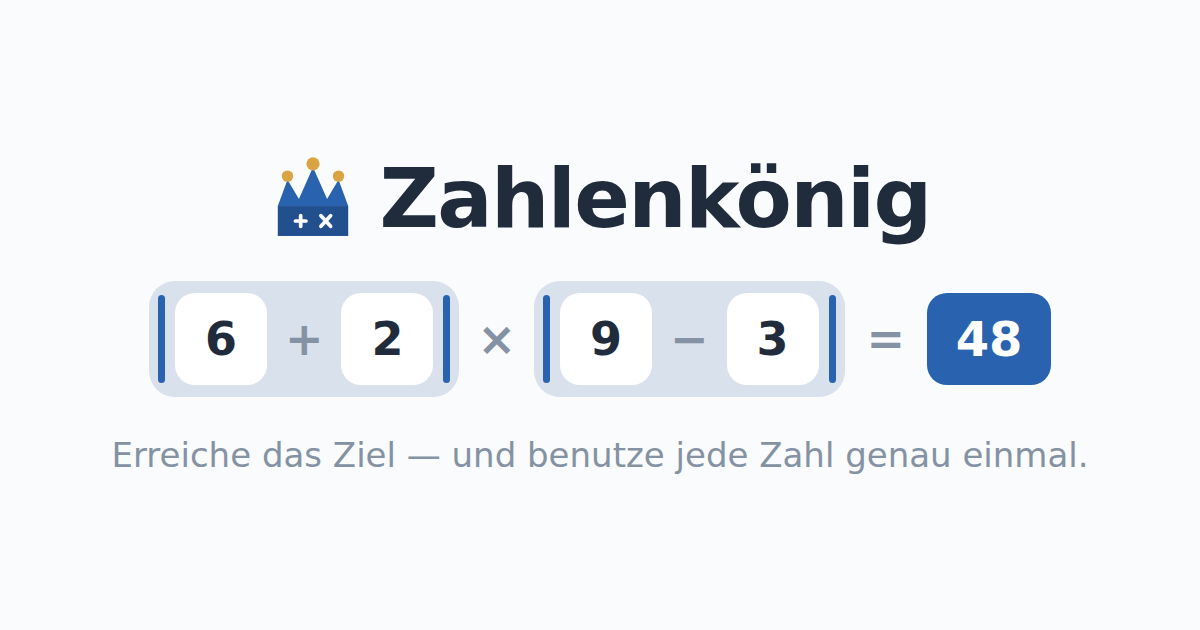
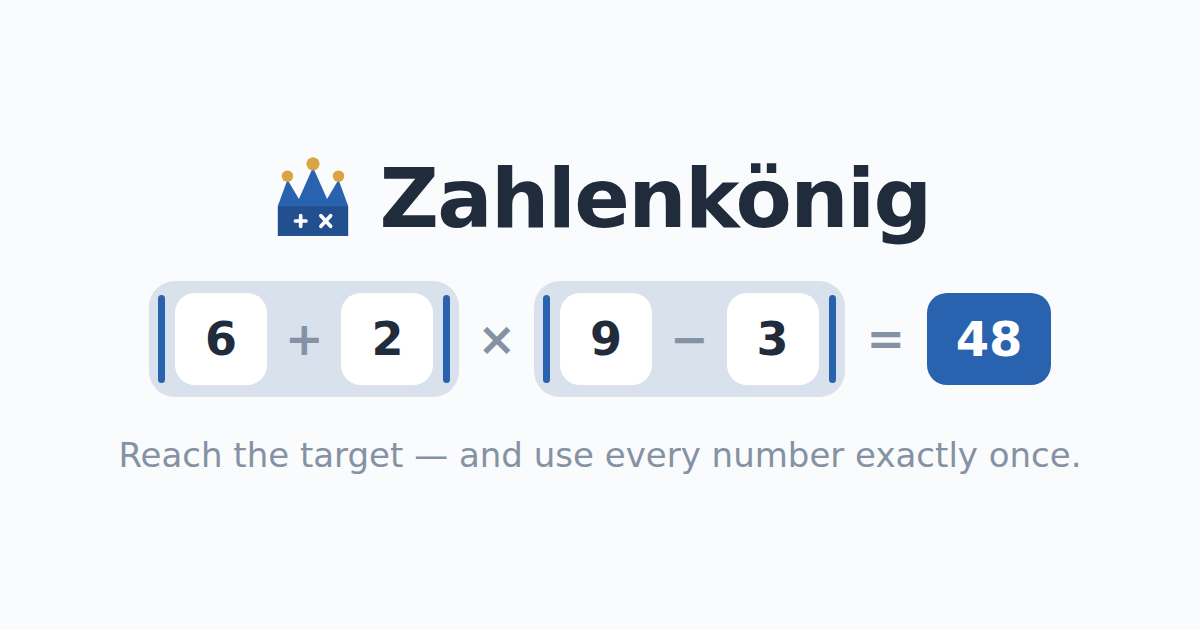
Serve the page and the sharing card in English
English is already the app's fallback language — detectLanguage() returns
'en' for anything it does not recognise and DEFAULT_SETTINGS.language is
'en' — so the German static page was the one place not following the rule
the rest of the app has.

The constraint that makes this a decision rather than a preference: a
crawler, a link scraper and an install prompt each fetch this URL once,
from their own servers, with no reader to follow. None can be given "the
user's language" the way the app can. Game.tsx already rewrites
documentElement.lang and the sr-only heading per player; that half was
always translated. So these surfaces take the fallback language, and
per-language cards would need per-language URLs, which is out of
proportion here.

Changed: html lang, title, meta description, the #root fallback prose, the
JSON-LD description/audience/featureList, the Open Graph and Twitter
cards, the og image tagline, and the manifest name/description/lang. The
game's own name stays German because it is a name.

Also dropped the two og:locale:alternate lines: they declared translations
that no alternate URL served, so nothing could act on them.

Verified in a browser that a de-DE browser still loads the German app and
html lang still becomes 'de' — the English is only ever what a crawler or
an unrecognised locale sees.

src/seo.test.ts pins the rule sentence to i18n's English introRule, which
the served page now matches word for word, and gains one invariant: the
[…]

Changed region(s): [[0.37, 0.6937, 0.8942, 0.754], [0.0925, 0.6937, 0.3392, 0.754]]

diff --git a/index.html b/index.html
@@ -1,5 +1,11 @@
 <!doctype html>
-<html lang="de">
+<!-- English, matching the app's own fallback language: `detectLanguage()`
+     returns 'en' for anything it does not recognise and
+     `DEFAULT_SETTINGS.language` is 'en' (core/settings.ts). Game.tsx
+     rewrites this attribute to the player's detected language on mount, so
+     this value is what a crawler reads and what an unrecognised locale
+     gets — exactly the two cases the i18n fallback already covers. -->
+<html lang="en">
   <head>
     <meta charset="UTF-8" />
     <link rel="icon" type="image/svg+xml" href="/zahlenkoenig/crown.svg" />
@@ -11,48 +17,50 @@
          why this and the manifest's theme_color have to stay in sync by hand. -->
     <meta name="theme-color" content="#2962ae" />
 
-    <title>Zahlenkönig – Rechenrätsel und Kopfrechnen-Spiel</title>
+    <title>Zahlenkönig – a free number puzzle game</title>
     <meta
       name="description"
-      content="Kostenloses Rechenrätsel: Erreiche mit zwei bis vier Zahlen ein Ziel und benutze dabei jede Zahl genau einmal. Plus, Minus, Mal, Geteilt und Klammern."
+      content="Reach the target using every number exactly once. Plus, minus, times, divide and brackets you place yourself. Free, no sign-up, plays offline."
     />
     <meta name="author" content="funnygerman" />
     <meta name="robots" content="index, follow, max-image-preview:large, max-snippet:-1" />
     <!-- One page, one URL. The app is a single view whose state (puzzle,
          language, settings) lives in LocalStorage rather than in the URL,
          so there is nothing else to canonicalize to and no query string a
-         crawler could turn into a duplicate. -->
+         crawler could turn into a duplicate. That is also why there are no
+         hreflang tags: the app runs in three languages off this one URL,
+         and hreflang needs a second URL to point at. -->
     <link rel="canonical" href="https://funnygerman.github.io/zahlenkoenig/" />
 
-    <!-- Sharing previews (Open Graph / Twitter). The absolute URLs are
-         required by both specs — a relative og:image is ignored by most
-         scrapers — so they repeat the deployed base from vite.config.ts's
-         `base`. src/seo.test.ts pins the two to each other. -->
+    <!-- Sharing previews (Open Graph / Twitter). A scraper fetches this URL
+         from its own server, once, with no idea who will see the result, so
+         a card is fixed per URL and cannot follow a reader's language the
+         way the app itself does — which is the same reason this page is in
+         the fallback language rather than in any particular player's. The
+         game's own name stays German because it is a name.
+         The absolute URLs are required by both specs — a relative og:image
+         is ignored by most scrapers — so they repeat the deployed base from
+         vite.config.ts's `base`. src/seo.test.ts pins the two to each
+         other, and pins the Twitter card to the Open Graph one so the two
+         can't drift apart. -->
     <meta property="og:type" content="website" />
     <meta property="og:site_name" content="Zahlenkönig" />
-    <meta property="og:title" content="Zahlenkönig – Rechenrätsel und Kopfrechnen-Spiel" />
+    <meta property="og:title" content="Zahlenkönig – a free number puzzle game" />
     <meta
       property="og:description"
-      content="Erreiche mit zwei bis vier Zahlen ein Ziel und benutze dabei jede Zahl genau einmal. Kostenlos, ohne Anmeldung, offline spielbar."
+      content="Reach the target using every number exactly once. Plus, minus, times, divide — and brackets you place yourself. No sign-up, plays offline."
     />
     <meta property="og:url" content="https://funnygerman.github.io/zahlenkoenig/" />
     <meta property="og:image" content="https://funnygerman.github.io/zahlenkoenig/og-image.png" />
     <meta property="og:image:width" content="1200" />
     <meta property="og:image:height" content="630" />
-    <meta property="og:image:alt" content="Zahlenkönig: die Aufgabe (6 + 2) × (9 − 3) mit dem Ziel 48" />
-    <!-- The served HTML is German (`lang` above). The app itself detects
-         the player's language on first visit (core/settings.ts) and
-         supports English and Russian too, but all three live at this one
-         URL, so these are alternates rather than hreflang targets — there
-         is no second URL to point an hreflang at. -->
-    <meta property="og:locale" content="de_DE" />
-    <meta property="og:locale:alternate" content="en_US" />
-    <meta property="og:locale:alternate" content="ru_RU" />
+    <meta property="og:image:alt" content="Zahlenkönig: the puzzle (6 + 2) × (9 − 3) with the target 48" />
+    <meta property="og:locale" content="en_US" />
     <meta name="twitter:card" content="summary_large_image" />
-    <meta name="twitter:title" content="Zahlenkönig – Rechenrätsel und Kopfrechnen-Spiel" />
+    <meta name="twitter:title" content="Zahlenkönig – a free number puzzle game" />
     <meta
       name="twitter:description"
-      content="Erreiche mit zwei bis vier Zahlen ein Ziel und benutze dabei jede Zahl genau einmal. Kostenlos, ohne Anmeldung, offline spielbar."
+      content="Reach the target using every number exactly once. Plus, minus, times, divide — and brackets you place yourself. No sign-up, plays offline."
     />
     <meta name="twitter:image" content="https://funnygerman.github.io/zahlenkoenig/og-image.png" />
 
@@ -69,19 +77,19 @@
             "@id": "https://funnygerman.github.io/zahlenkoenig/#website",
             "url": "https://funnygerman.github.io/zahlenkoenig/",
             "name": "Zahlenkönig",
-            "inLanguage": ["de", "en", "ru"]
+            "inLanguage": ["en", "de", "ru"]
           },
           {
             "@type": ["SoftwareApplication", "Game"],
             "@id": "https://funnygerman.github.io/zahlenkoenig/#app",
             "name": "Zahlenkönig",
             "url": "https://funnygerman.github.io/zahlenkoenig/",
-            "description": "Zahlenkönig ist ein Rechenrätsel für den Browser. Der Spieler bekommt zwei bis vier Zahlen und eine Zielzahl und muss das Ziel erreichen, indem er jede Zahl genau einmal benutzt. Erlaubt sind Plus, Minus, Mal und Geteilt sowie selbst gesetzte Klammern; welche Rechenzeichen, wie viele Zahlen und wie groß das Ziel sein soll, wählt der Spieler vorher aus. Jedes Rätsel wird auf dem Gerät erzeugt und ist garantiert lösbar.",
+            "description": "Zahlenkönig is a number puzzle for the browser. You are given two to four numbers and a target, and you have to reach the target using every number exactly once. Plus, minus, times and divide are allowed, as are brackets you place yourself; how many numbers, which operators and how big the target should be are all chosen before you start. Every puzzle is generated on the device and is guaranteed to be solvable.",
             "applicationCategory": ["GameApplication", "EducationalApplication"],
             "applicationSubCategory": "Puzzle",
             "operatingSystem": "Web browser (Android, iOS, Windows, macOS, Linux)",
             "browserRequirements": "Requires JavaScript",
-            "inLanguage": ["de", "en", "ru"],
+            "inLanguage": ["en", "de", "ru"],
             "isAccessibleForFree": true,
             "offers": {
               "@type": "Offer",
@@ -91,20 +99,20 @@
             "audience": {
               "@type": "EducationalAudience",
               "educationalRole": "student",
-              "audienceType": "Grundschulkinder ab der ersten Klasse bis Erwachsene"
+              "audienceType": "From first-graders to adults"
             },
-            "educationalUse": "Kopfrechnen üben, Grundrechenarten, Punkt-vor-Strich, Klammerrechnung",
-            "teaches": "Kopfrechnen mit den vier Grundrechenarten und Klammern",
+            "educationalUse": "Mental arithmetic practice, the four basic operations, order of operations, brackets",
+            "teaches": "Mental arithmetic with the four basic operations and brackets",
             "featureList": [
-              "Zwei bis vier Zahlen pro Rätsel",
-              "Plus, Minus, Mal und Geteilt einzeln zuschaltbar",
-              "Klammern per Ziehen selbst setzen",
-              "Vier Zielgrößen von klein bis sehr groß",
-              "Tipp-Funktion, die den nächsten Zug setzt",
-              "Nur Rätsel mit genau einer Lösung, auf Wunsch",
-              "Bereits gelöste Rätsel wieder aufrufen",
-              "Ohne Anmeldung und ohne Werbung",
-              "Als App installierbar und offline spielbar"
+              "Two to four numbers per puzzle",
+              "Plus, minus, times and divide, each switched on separately",
+              "Brackets you place yourself by dragging",
+              "Four target sizes, from small to very large",
+              "A hint that plays the next move for you",
+              "Puzzles with exactly one solution, on request",
+              "Step back into puzzles you have already solved",
+              "No sign-up and no ads",
+              "Installable as an app and playable offline"
             ],
             "screenshot": "https://funnygerman.github.io/zahlenkoenig/og-image.png",
             "author": {
@@ -130,17 +138,17 @@
       <main style="max-width: 34rem; margin: 0 auto; padding: 2rem 1.25rem; font-family: system-ui, sans-serif; color: #223449; line-height: 1.55">
         <h1 style="font-size: 1.5rem; margin-bottom: 0.5rem">Zahlenkönig</h1>
         <p>
-          Ein Rechenrätsel für den Browser: Du bekommst zwei bis vier Zahlen und ein Ziel.
-          Erreiche das Ziel und benutze dabei <strong>jede Zahl genau einmal</strong>.
+          A number puzzle for the browser: you get two to four numbers and a target.
+          Reach the target, and use <strong>every number exactly once</strong>.
         </p>
         <ul>
-          <li>Plus, Minus, Mal und Geteilt — du wählst selbst, welche Rechenzeichen vorkommen.</li>
-          <li>Klammern setzt du selbst, indem du eine Zahl auf den Klammerrand ziehst.</li>
-          <li>Ein Tipp setzt den nächsten Zug, wenn du nicht weiterkommst.</li>
-          <li>Von der ersten Klasse bis zum Kopfrechen-Profi: zwei bis vier Zahlen, vier Zielgrößen.</li>
-          <li>Kostenlos, ohne Anmeldung, ohne Werbung — installierbar und offline spielbar.</li>
+          <li>Plus, minus, times and divide — you choose which operators turn up.</li>
+          <li>Brackets are yours to place: drag a number onto a bracket edge to pull it inside.</li>
+          <li>A hint plays the next move when you get stuck.</li>
+          <li>From first-graders to mental-arithmetic veterans: two to four numbers, four target sizes.</li>
+          <li>Free, no sign-up, no ads — installable and playable offline.</li>
         </ul>
-        <p>Zum Spielen braucht diese Seite JavaScript. Ist es eingeschaltet, startet das Spiel sofort.</p>
+        <p>This page needs JavaScript to play. With it switched on, the game starts straight away.</p>
       </main>
     </div>
     <script type="module" src="/src/main.tsx"></script>

diff --git a/vite.config.ts b/vite.config.ts
@@ -80,16 +80,18 @@ export default defineConfig({
       registerType: 'prompt',
       injectRegister: null, // registered by hand in main.tsx, alongside the update-hint wiring, not auto-injected
       manifest: {
-        name: 'Zahlenkönig – Rechenrätsel und Kopfrechnen-Spiel',
+        name: 'Zahlenkönig – a free number puzzle game',
         short_name: 'Zahlenkönig',
         // The same sentence index.html's meta description leads with. An
         // install prompt and an app-store-style listing both surface this,
-        // so it states the rule rather than restating the name — and it is
-        // German, matching `lang` below and the served HTML, even though
-        // the app itself runs in three languages off one URL.
+        // so it states the rule rather than restating the name. English,
+        // matching `lang` below and the served HTML: a manifest is fetched
+        // once per install with no reader to follow, the same constraint
+        // the sharing card has, so it uses the app's own fallback language
+        // (core/settings.ts's `detectLanguage`).
         description:
-          'Erreiche mit zwei bis vier Zahlen ein Ziel und benutze dabei jede Zahl genau einmal. Plus, Minus, Mal, Geteilt und Klammern – von der ersten Klasse bis zum Kopfrechen-Profi.',
-        lang: 'de',
+          'Reach the target using every number exactly once. Plus, minus, times, divide and brackets you place yourself. Free, no sign-up, plays offline.',
+        lang: 'en',
         dir: 'ltr',
         // Used by app catalogues that read web manifests; both are on the
         // spec's own registered-category list, so neither is invented.

diff --git a/src/seo.test.ts b/src/seo.test.ts
@@ -29,8 +29,12 @@ import viteConfig from '../vite.config.ts?raw'
  * change freely, the properties may not.
  */
 
-/** The one sentence the whole game turns on (concept 6.4, i18n's `introRule`). */
-const RULE = 'jede Zahl genau einmal'
+/**
+ * The one sentence the whole game turns on (concept 6.4). Matches i18n's
+ * English `introRule` word for word — the served page is in the app's own
+ * fallback language, so the two say the same thing by construction.
+ */
+const RULE = 'every number exactly once'
 
 function meta(attr: 'name' | 'property', key: string): string | null {
   const m = html.match(
@@ -73,6 +77,17 @@ describe('index.html, as a crawler receives it', () => {
     const image = meta('property', 'og:image')!
     expect(image.startsWith(siteUrl!)).toBe(true)
     expect(meta('name', 'twitter:image')).toBe(image)
+  })
+
+  it('says the same thing on the Open Graph and Twitter cards', () => {
+    // Two tag families describing one card, maintained by hand side by
+    // side: editing one and forgetting the other is the obvious mistake,
+    // and nothing else in the build notices. Deliberately checks that they
+    // are equal rather than what they say — the card is in English while
+    // the page is German (a scraper cannot follow a reader's language), and
+    // that choice should stay free to change without editing a test.
+    expect(meta('name', 'twitter:title')).toBe(meta('property', 'og:title'))
+    expect(meta('name', 'twitter:description')).toBe(meta('property', 'og:description'))
   })
 
   it('carries structured data that parses and points at the same URL', () => {

diff --git a/CLAUDE.md b/CLAUDE.md
@@ -155,8 +155,8 @@ digits, and it never states the one real rule. Most LLM-based crawlers do
 the page was literally an empty div. So the fix is two-sided:
 
 - **`index.html`'s `#root` now holds the page as prose** — the name, the
-  rule ("jede Zahl genau einmal"), what the operators and brackets do, and
-  who it is for. `createRoot` clears its container on first render
+  rule ("every number exactly once"), what the operators and brackets do,
+  and who it is for. `createRoot` clears its container on first render
   (`src/main.tsx`), so this is the no-JavaScript fallback and the loading
   state in one, and it is never on screen beside the game.
 - **`Game.tsx` renders a visually hidden `<h1>` and one-sentence
@@ -175,8 +175,49 @@ scrolling (`scrollHeight === clientHeight`, which `tokens.css`'s own
 `overflow: hidden` already guaranteed since the stylesheet is
 render-blocking). With JavaScript off it is simply the page. Worth being
 plain about the tradeoff: on a slow phone there is now a brief flash of
-German prose where there used to be a blank white screen — which is the
+prose where there used to be a blank white screen — which is the
 comparison that matters, and it is an improvement rather than a cost.
+Confirmed by screenshot afterwards against a build of the previous commit:
+the mounted game is **pixel-identical**, same MD5, since the new `<h1>` is
+clipped to 1×1 and lives only in the accessibility tree. The first attempt
+at that comparison was worthless and worth remembering — both builds
+screenshotted at a fixed delay under CPU throttling, which sampled a race
+rather than controlling it (the "after" shot had already mounted). Turning
+JavaScript off in both holds the pre-mount paint still and treats them
+identically.
+
+**The served page is in English, and the sharing card with it (PO).** It
+started out German, matching the app's origin, and the PO's own question
+settled it: English is already the app's fallback language —
+`detectLanguage()` returns `'en'` for anything it does not recognise and
+`DEFAULT_SETTINGS.language` is `'en'` — so a German static page was the
+one place that did not follow the rule the rest of the app already has.
+The constraint underneath is worth stating once, because it is what makes
+this a decision rather than a preference: **a crawler, a link scraper and
+an install prompt all fetch this URL once, from their own servers, with no
+reader to follow.** None of them can be given "the user's language" the
+way the app can — `Game.tsx` rewrites `documentElement.lang` and the
+sr-only heading per player, and that half was always translated. So these
+surfaces get the fallback language, and per-language cards would need
+per-language *URLs* (`/en/`, `/ru/`), which was offered and declined as
+out of proportion. Verified after the switch: a `de-DE` browser still
+loads the German app and `html lang` still becomes `de` — the English is
+only ever what a crawler or an unrecognised locale sees. The game's own
+name stays German because it is a name. What this costs is German-language
+query matching, which was near-worthless anyway for the reason under
+"worth it" below. Two `og:locale:alternate` lines went out with the same
+round: they declared translations no alternate URL served, which is this
+file's own "reads plausibly, does nothing" failure in miniature.
+
+**Worth being honest about how much of this pays.** Ranking is mostly a
+function of inbound links, and this is a project page on `github.io` with
+no links pointing at it, so the search-engine half will not bring traffic
+and should not be described as if it will. The part that does pay is the
+**sharing card**, which is not a search-engine feature at all: a link
+posted into a chat now renders as a titled card with the board on it
+instead of a bare URL, and this game spreads by being passed around. That
+is the reason the card got the language decision above and the sitemap did
+not.
 
 *The rest of the round is metadata that did not exist at all:* a title that
 says what the thing is, a 150-character description, `canonical`, `robots`,
